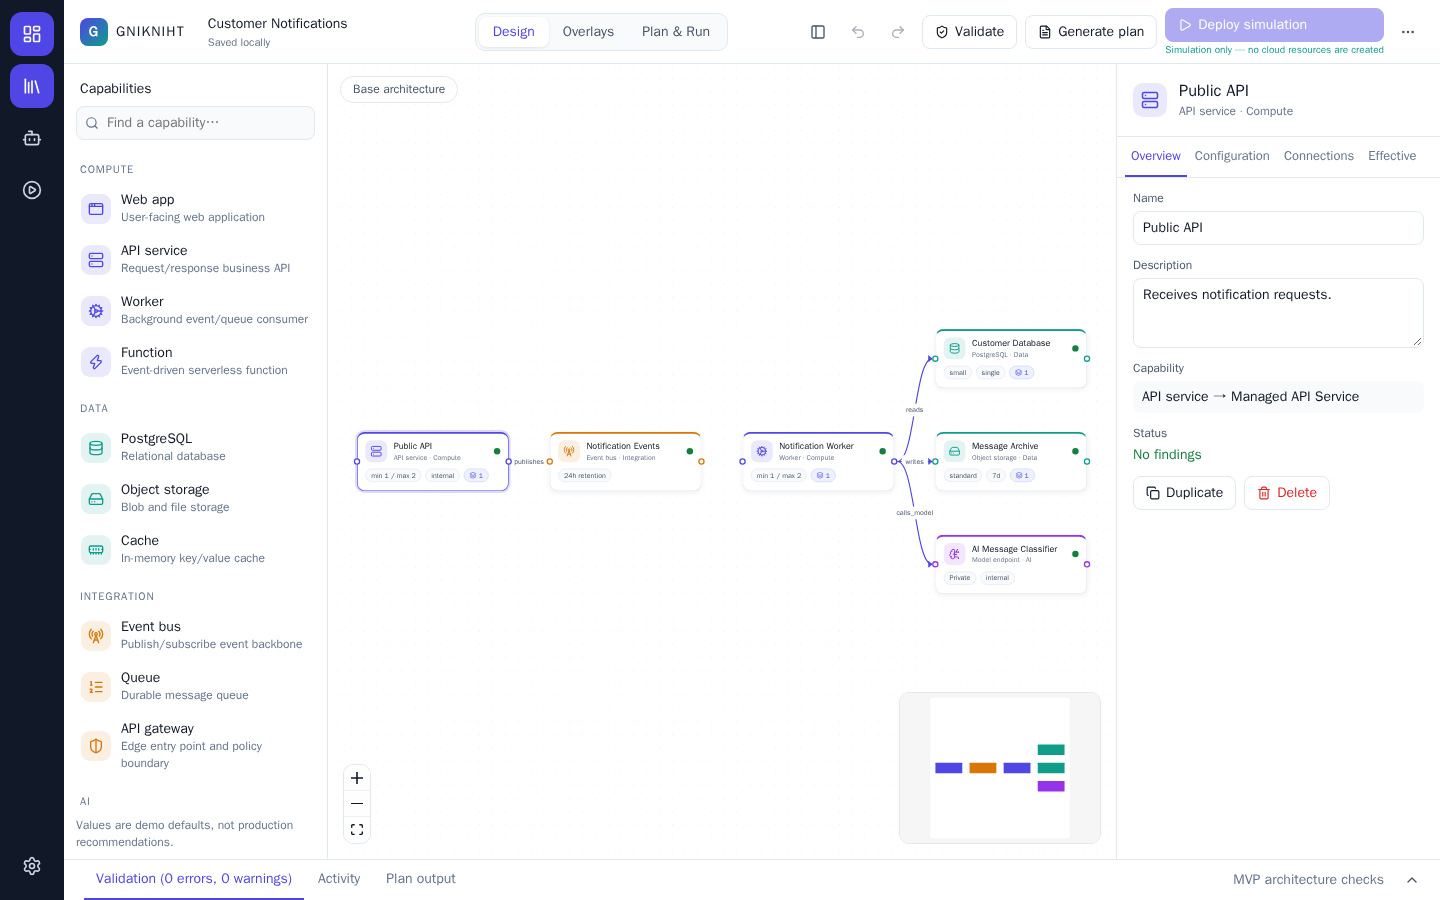
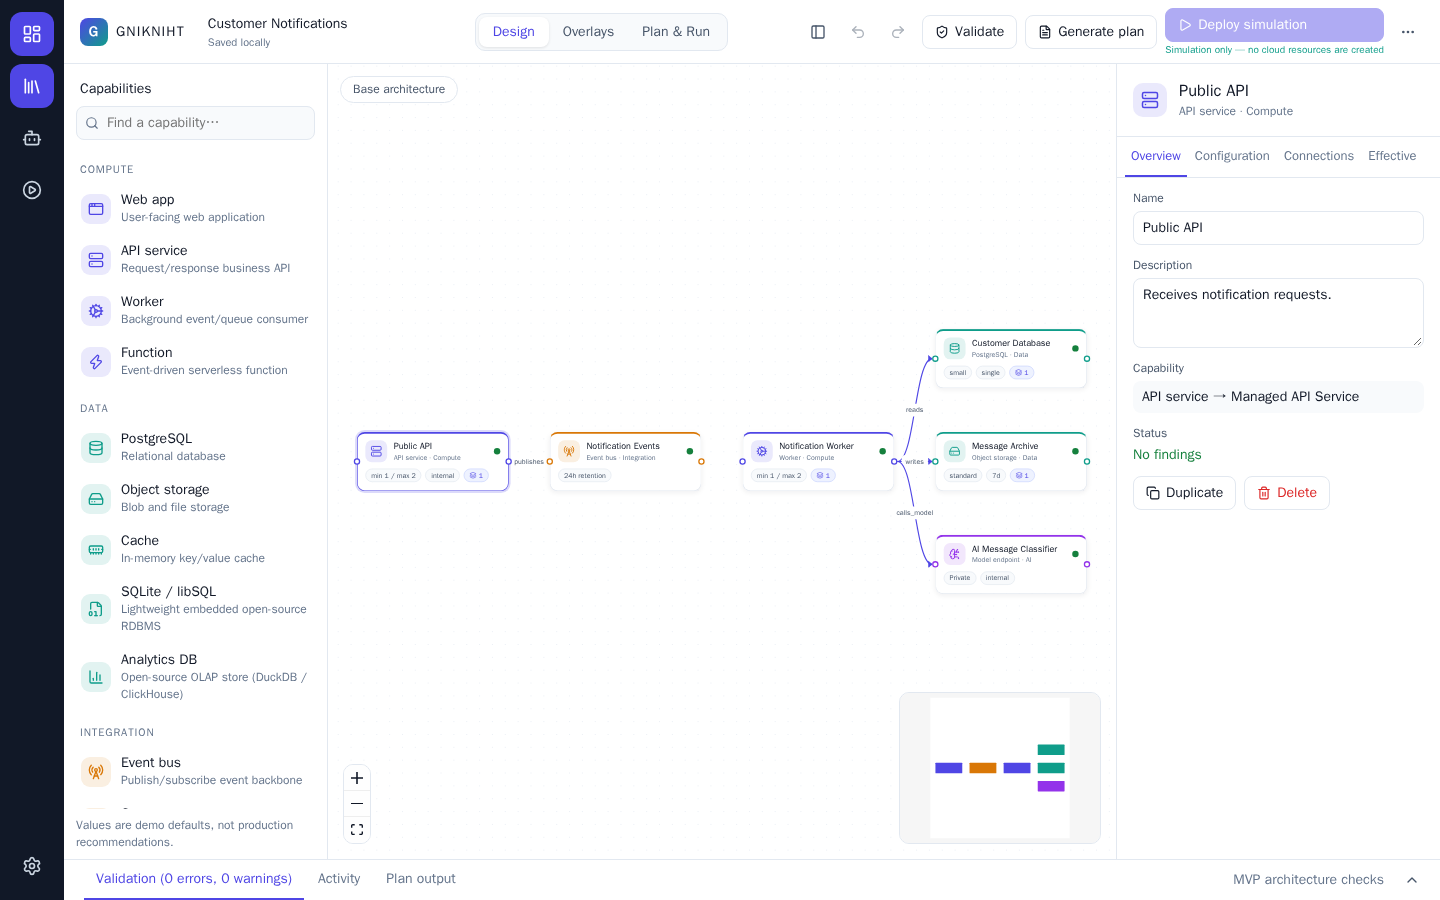
Add open-source platform kit capabilities (SQLite, analytics DB, vector store, RAG, MCP, APIM, SSO, Key Vault, IaC)

Changed region(s): [[0.0312, 0.6533, 0.2188, 0.7778], [0.0312, 0.8089, 0.2188, 0.8711]]

diff --git a/src/domain/catalog.ts b/src/domain/catalog.ts
@@ -1,6 +1,6 @@
 import type { CapabilityKind, ConfigValue, NodeConfig, Relation } from './types';
 
-export type Category = 'Compute' | 'Data' | 'Integration' | 'AI' | 'External';
+export type Category = 'Compute' | 'Data' | 'Integration' | 'AI' | 'Security' | 'Platform' | 'External';
 
 export interface FieldDef {
   key: string;
@@ -139,6 +139,106 @@ export const CATALOG: Record<CapabilityKind, CapabilityDef> = {
     ],
     implementation: 'Private Model Endpoint', stateless: false, dataBearing: true, baseCost: 80,
   },
+  sqlite: {
+    kind: 'sqlite', label: 'SQLite / libSQL', category: 'Data', description: 'Lightweight embedded open-source RDBMS',
+    defaults: { engine: 'sqlite', storageGiB: 5, backup: true, encryptionAtRest: true, publicAccess: false },
+    fields: [
+      { key: 'engine', label: 'Engine', type: 'select', options: ['sqlite', 'libsql', 'mariadb'] },
+      { key: 'storageGiB', label: 'Storage (GiB)', type: 'number', min: 1, max: 1024 },
+      { key: 'backup', label: 'Backups', type: 'boolean' },
+      { key: 'encryptionAtRest', label: 'Encryption at rest', type: 'boolean' },
+      { key: 'publicAccess', label: 'Public endpoint', type: 'boolean' },
+    ],
+    implementation: 'Lightweight Relational DB', stateless: false, dataBearing: true, baseCost: 8,
+  },
+  analytics_db: {
+    kind: 'analytics_db', label: 'Analytics DB', category: 'Data', description: 'Open-source OLAP store (DuckDB / ClickHouse)',
+    defaults: { engine: 'duckdb', tier: 'small', storageGiB: 50, encryptionAtRest: true, publicAccess: false },
+    fields: [
+      { key: 'engine', label: 'Engine', type: 'select', options: ['duckdb', 'clickhouse'] },
+      { key: 'tier', label: 'Tier', type: 'select', options: ['small', 'medium', 'large'] },
+      { key: 'storageGiB', label: 'Storage (GiB)', type: 'number', min: 1, max: 16384 },
+      { key: 'encryptionAtRest', label: 'Encryption at rest', type: 'boolean' },
+      { key: 'publicAccess', label: 'Public endpoint', type: 'boolean' },
+    ],
+    implementation: 'Managed Analytics DB', stateless: false, dataBearing: true, baseCost: 35,
+  },
+  vector_store: {
+    kind: 'vector_store', label: 'Vector store', category: 'AI', description: 'Embedding index for RAG (pgvector / Qdrant)',
+    defaults: { engine: 'pgvector', dimensions: 768, storageGiB: 10, encryptionAtRest: true, publicAccess: false },
+    fields: [
+      { key: 'engine', label: 'Engine', type: 'select', options: ['pgvector', 'qdrant', 'chroma'] },
+      { key: 'dimensions', label: 'Dimensions', type: 'number', min: 8, max: 4096 },
+      { key: 'storageGiB', label: 'Storage (GiB)', type: 'number', min: 1, max: 4096 },
+      { key: 'encryptionAtRest', label: 'Encryption at rest', type: 'boolean' },
+      { key: 'publicAccess', label: 'Public endpoint', type: 'boolean' },
+    ],
+    implementation: 'Managed Vector Store', stateless: false, dataBearing: true, baseCost: 25,
+  },
+  rag_service: {
+    kind: 'rag_service', label: 'RAG service', category: 'AI', description: 'Retrieval-augmented generation pipeline',
+    defaults: { replicasMin: 1, replicasMax: 3, cpu: 1, memoryGiB: 2, topK: 5, chunkSize: 512, ingress: 'internal' },
+    fields: [...replicas,
+      { key: 'topK', label: 'Top-K', type: 'number', min: 1, max: 100 },
+      { key: 'chunkSize', label: 'Chunk size (tokens)', type: 'number', min: 64, max: 8192 },
+      ingress],
+    implementation: 'Managed RAG Pipeline', stateless: true, dataBearing: false, baseCost: 30,
+  },
+  mcp_server: {
+    kind: 'mcp_server', label: 'MCP server', category: 'AI', description: 'Model Context Protocol tool/resource server',
+    defaults: { replicasMin: 1, replicasMax: 3, cpu: 0.5, memoryGiB: 1, transport: 'http', authentication: 'required', ingress: 'internal' },
+    fields: [...replicas,
+      { key: 'transport', label: 'Transport', type: 'select', options: ['http', 'sse', 'stdio'] },
+      { key: 'authentication', label: 'Authentication', type: 'select', options: ['required', 'optional', 'none'] },
+      ingress],
+    implementation: 'Managed MCP Server', stateless: true, dataBearing: false, baseCost: 20,
+  },
+  api_management: {
+    kind: 'api_management', label: 'API management', category: 'Integration', description: 'APIM: keys, quotas, versions, portal (Kong / Tyk)',
+    defaults: { engine: 'kong', ingress: 'public', authentication: 'required', rateLimitPerMinute: 1000, developerPortal: true },
+    fields: [
+      { key: 'engine', label: 'Engine', type: 'select', options: ['kong', 'tyk', 'apisix'] },
+      ingress,
+      { key: 'authentication', label: 'Authentication', type: 'select', options: ['required', 'optional', 'none'] },
+      { key: 'rateLimitPerMinute', label: 'Rate limit / min', type: 'number', min: 1, max: 1000000 },
+      { key: 'developerPortal', label: 'Developer portal', type: 'boolean' },
+    ],
+    implementation: 'Managed API Management', stateless: true, dataBearing: false, baseCost: 25,
+  },
+  identity_provider: {
+    kind: 'identity_provider', label: 'SSO / Identity', category: 'Security', description: 'SSO and authentication (Keycloak / Authentik)',
+    defaults: { engine: 'keycloak', protocol: 'oidc', mfa: true, tier: 'small' },
+    fields: [
+      { key: 'engine', label: 'Engine', type: 'select', options: ['keycloak', 'authentik', 'zitadel'] },
+      { key: 'protocol', label: 'Protocol', type: 'select', options: ['oidc', 'saml'] },
+      { key: 'mfa', label: 'Require MFA', type: 'boolean' },
+      { key: 'tier', label: 'Tier', type: 'select', options: ['small', 'medium', 'large'] },
+    ],
+    implementation: 'Managed Identity Provider', stateless: false, dataBearing: false, baseCost: 20,
+  },
+  key_vault: {
+    kind: 'key_vault', label: 'Key Vault', category: 'Security', description: 'Secrets and key management (OpenBao / Vault)',
+    defaults: { engine: 'openbao', autoUnseal: true, rotationDays: 90, encryptionAtRest: true, publicAccess: false },
+    fields: [
+      { key: 'engine', label: 'Engine', type: 'select', options: ['openbao', 'vault', 'infisical'] },
+      { key: 'autoUnseal', label: 'Auto-unseal', type: 'boolean' },
+      { key: 'rotationDays', label: 'Rotation (days)', type: 'number', min: 1, max: 365 },
+      { key: 'encryptionAtRest', label: 'Encryption at rest', type: 'boolean' },
+      { key: 'publicAccess', label: 'Public endpoint', type: 'boolean' },
+    ],
+    implementation: 'Managed Key Vault', stateless: false, dataBearing: true, baseCost: 15,
+  },
+  iac_pipeline: {
+    kind: 'iac_pipeline', label: 'IaC pipeline', category: 'Platform', description: 'Infrastructure as code runner (OpenTofu / Pulumi)',
+    defaults: { engine: 'opentofu', stateBackend: 'object_storage', driftDetection: true, policyChecks: true },
+    fields: [
+      { key: 'engine', label: 'Engine', type: 'select', options: ['opentofu', 'pulumi', 'ansible'] },
+      { key: 'stateBackend', label: 'State backend', type: 'select', options: ['object_storage', 'postgres', 'local'] },
+      { key: 'driftDetection', label: 'Drift detection', type: 'boolean' },
+      { key: 'policyChecks', label: 'Policy checks', type: 'boolean' },
+    ],
+    implementation: 'IaC Pipeline Runner', stateless: true, dataBearing: false, baseCost: 5,
+  },
   external_system: {
     kind: 'external_system', label: 'External system', category: 'External', description: 'Third-party or on-prem dependency',
     defaults: { systemName: 'External system', trustBoundary: 'external', protocol: 'https' },
@@ -151,9 +251,9 @@ export const CATALOG: Record<CapabilityKind, CapabilityDef> = {
   },
 };
 
-export const CATEGORIES: Category[] = ['Compute', 'Data', 'Integration', 'AI', 'External'];
+export const CATEGORIES: Category[] = ['Compute', 'Data', 'Integration', 'AI', 'Security', 'Platform', 'External'];
 
-export const PRODUCER_KINDS: CapabilityKind[] = ['web_app', 'api_service', 'worker', 'function', 'external_system'];
+export const PRODUCER_KINDS: CapabilityKind[] = ['web_app', 'api_service', 'worker', 'function', 'rag_service', 'mcp_server', 'external_system'];
 export const BROKER_KINDS: CapabilityKind[] = ['event_bus', 'queue'];
 export const CONSUMER_KINDS: CapabilityKind[] = ['worker', 'function'];
 
@@ -177,6 +277,7 @@ export function relationProblem(rel: Relation, source: CapabilityKind, target: C
 
 export function inferRelation(source: CapabilityKind, target: CapabilityKind): Relation {
   if (target === 'model_endpoint') return 'calls_model';
+  if (target === 'identity_provider' || target === 'key_vault' || target === 'iac_pipeline') return 'depends_on';
   if (BROKER_KINDS.includes(target)) return CONSUMER_KINDS.includes(source) ? 'subscribes' : 'publishes';
   if (CATALOG[target].dataBearing) return source === 'worker' ? 'reads' : 'writes';
   if (CATALOG[source].category === 'Compute' || source === 'api_gateway') return 'request';
@@ -200,6 +301,10 @@ export function summaryChips(kind: CapabilityKind, c: NodeConfig): string[] {
     case 'api_gateway': chips.push(String(v('ingress'))); chips.push(`${v('rateLimitPerMinute')}/min`); break;
     case 'model_endpoint': chips.push(v('privateEndpoint') ? 'Private' : 'Public'); chips.push(String(v('dataSensitivity'))); break;
     case 'external_system': chips.push(String(v('trustBoundary'))); break;
+    case 'sqlite': case 'analytics_db': case 'vector_store': case 'api_management': case 'identity_provider': case 'key_vault': case 'iac_pipeline':
+      chips.push(String(v('engine'))); break;
+    case 'rag_service': chips.push(`top-${v('topK')}`); chips.push(String(v('ingress'))); break;
+    case 'mcp_server': chips.push(String(v('transport'))); chips.push(v('authentication') === 'none' ? 'no auth' : 'auth'); break;
   }
   if (c.networkExposure === 'private') chips.push('Private network');
   return chips;

diff --git a/src/domain/validate.ts b/src/domain/validate.ts
@@ -80,11 +80,24 @@ export function validateProject(project: GnikProject, resolved: ResolvedProject)
       add({ severity: 'error', code: 'MODEL_RESTRICTED_PRIVATE', message: `${node.name} handles restricted data and requires a private endpoint on an approved provider profile.`, nodeIds: [node.id], remediation: 'Enable the private endpoint and use the mock-paas provider.' });
     }
 
+    if (node.kind === 'mcp_server' && c.authentication === 'none' && c.ingress === 'public') {
+      add({ severity: 'error', code: 'MCP_NO_AUTH', message: `${node.name}: a public MCP server must require authentication.`, nodeIds: [node.id], remediation: 'Set authentication to required or ingress to internal.' });
+    }
+    if (node.kind === 'key_vault' && c.publicAccess === true) {
+      add({ severity: 'error', code: 'VAULT_PUBLIC', message: `${node.name}: a key vault must not be publicly reachable.`, nodeIds: [node.id], remediation: 'Disable public access.' });
+    }
+    if (node.kind === 'identity_provider' && prod && c.mfa !== true) {
+      add({ severity: 'error', code: 'PROD_SSO_MFA', message: `${node.name}: production SSO must require MFA.`, nodeIds: [node.id], remediation: 'Enable MFA.' });
+    }
+    if (node.kind === 'rag_service' && !project.graph.edges.some((e) => e.source === node.id && project.graph.nodes.find((n) => n.id === e.target)?.kind === 'vector_store')) {
+      add({ severity: 'warning', code: 'RAG_NO_VECTOR_STORE', message: `${node.name} has no connection to a vector store.`, nodeIds: [node.id], idSuffix: node.id, remediation: 'Connect the RAG service to a vector store.' });
+    }
+
     if (prod) {
       if (def.stateless && min !== undefined && min < 2 && c.productionExempt !== true) {
         add({ severity: 'error', code: 'PROD_REPLICAS', message: `${node.name}: Production requires at least 2 replicas (currently ${min}).`, nodeIds: [node.id], remediation: 'Raise min replicas to 2 or more.' });
       }
-      if (node.kind === 'postgres') {
+      if (node.kind === 'postgres' || node.kind === 'sqlite') {
         if (c.backup !== true) add({ severity: 'error', code: 'PROD_DB_BACKUP', message: `${node.name}: production databases must have backups enabled.`, nodeIds: [node.id], remediation: 'Enable backups.' });
       }
     }

diff --git a/src/components/icons.ts b/src/components/icons.ts
@@ -1,6 +1,6 @@
 import {
   AppWindow, Server, Cog, Zap, Database, HardDrive, MemoryStick, RadioTower, ListOrdered, ShieldHalf, BrainCircuit, Globe2,
-  Gauge, Shield, Layers, Wallet, MapPin, Rocket, type LucideIcon,
+  Gauge, Shield, FileDigit, BarChart3, Boxes, Search, Plug, Network, KeyRound, Vault, Blocks, Layers, Wallet, MapPin, Rocket, type LucideIcon,
 } from 'lucide-react';
 import type { CapabilityKind, OverlayKind } from '../domain/types';
 import type { Category } from '../domain/catalog';
@@ -8,10 +8,12 @@ import type { Category } from '../domain/catalog';
 export const KIND_ICON: Record<CapabilityKind, LucideIcon> = {
   web_app: AppWindow, api_service: Server, worker: Cog, function: Zap, postgres: Database, object_storage: HardDrive,
   cache: MemoryStick, event_bus: RadioTower, queue: ListOrdered, api_gateway: ShieldHalf, model_endpoint: BrainCircuit, external_system: Globe2,
+  sqlite: FileDigit, analytics_db: BarChart3, vector_store: Boxes, rag_service: Search, mcp_server: Plug,
+  api_management: Network, identity_provider: KeyRound, key_vault: Vault, iac_pipeline: Blocks,
 };
 
 export const CATEGORY_COLOR: Record<Category, string> = {
-  Compute: '#4F46E5', Data: '#0F9D8A', Integration: '#D97706', AI: '#9333EA', External: '#64748B',
+  Compute: '#4F46E5', Data: '#0F9D8A', Integration: '#D97706', AI: '#9333EA', Security: '#DC2626', Platform: '#0284C7', External: '#64748B',
 };
 
 export const OVERLAY_ICON: Record<OverlayKind, LucideIcon> = {

diff --git a/src/domain/domain.test.ts b/src/domain/domain.test.ts
@@ -154,3 +154,26 @@ describe('import/export', () => {
     expect(parseProject('{"schemaVersion":2}').ok).toBe(false);
   });
 });
+
+describe('platform kit', () => {
+  it('flags insecure MCP, vault and orphan RAG nodes', () => {
+    const base = createStarterProject();
+    const mk = (id: string, kind: any, config: any) => ({ id, kind, name: id, position: { x: 0, y: 0 }, config });
+    const p: GnikProject = {
+      ...base,
+      graph: {
+        edges: [],
+        nodes: [
+          ...base.graph.nodes,
+          mk('m', 'mcp_server', { replicasMin: 1, replicasMax: 2, cpu: 0.5, memoryGiB: 1, authentication: 'none', ingress: 'public' }),
+          mk('k', 'key_vault', { publicAccess: true, rotationDays: 90 }),
+          mk('r', 'rag_service', { replicasMin: 1, replicasMax: 2, cpu: 1, memoryGiB: 2, topK: 5, chunkSize: 512 }),
+        ],
+      },
+    };
+    const codes = run(p).f.map((x) => x.code);
+    expect(codes).toContain('MCP_NO_AUTH');
+    expect(codes).toContain('VAULT_PUBLIC');
+    expect(codes).toContain('RAG_NO_VECTOR_STORE');
+  });
+});

diff --git a/src/domain/types.ts b/src/domain/types.ts
@@ -13,6 +13,15 @@ export const CAPABILITY_KINDS = [
   'api_gateway',
   'model_endpoint',
   'external_system',
+  'sqlite',
+  'analytics_db',
+  'vector_store',
+  'rag_service',
+  'mcp_server',
+  'api_management',
+  'identity_provider',
+  'key_vault',
+  'iac_pipeline',
 ] as const;
 export const capabilityKindSchema = z.enum(CAPABILITY_KINDS);
 export type CapabilityKind = z.infer<typeof capabilityKindSchema>;

diff --git a/README.md b/README.md
@@ -19,8 +19,23 @@ GNIKNIHT is a visual-first studio for modelling an application as a **topology o
 
 ## Features
 
-- **Design** — drag or click capabilities from the palette (web app, API service, worker, function, PostgreSQL, object storage, cache, event bus, queue, API gateway, model endpoint, external system), connect them with typed relationships (`request`, `publishes`, `subscribes`, `reads`, `writes`, `depends_on`, `calls_model`), move, multi-select, duplicate, delete, pan/zoom, minimap, undo/redo.
+- **Design** — drag or click capabilities from the palette (web app, API service, worker, function, PostgreSQL, object storage, cache, event bus, queue, API gateway, model endpoint, external system, plus the open-source platform kit below), connect them with typed relationships (`request`, `publishes`, `subscribes`, `reads`, `writes`, `depends_on`, `calls_model`), move, multi-select, duplicate, delete, pan/zoom, minimap, undo/redo.
 - **Inspector** — Overview, Configuration, Connections and **Effective** tabs. The Effective tab shows base vs. resolved values with provenance (base, overlay, platform default, org policy).
+- **Open-source platform kit** — lightweight building blocks, each with an `engine` choice, validation and plan support:
+
+  | Capability | Category | Engines |
+  |---|---|---|
+  | SQLite / libSQL (RDBMS) | Data | sqlite, libsql, mariadb |
+  | Analytics DB | Data | duckdb, clickhouse |
+  | Vector store | AI | pgvector, qdrant, chroma |
+  | RAG service | AI | retrieval pipeline (top-K, chunk size) |
+  | MCP server | AI | http, sse, stdio transports |
+  | API management (APIM) | Integration | kong, tyk, apisix |
+  | SSO / Identity | Security | keycloak, authentik, zitadel |
+  | Key Vault | Security | openbao, vault, infisical |
+  | IaC pipeline | Platform | opentofu, pulumi, ansible |
+
+  Rules: public MCP servers must require auth, key vaults can't be public, production SSO requires MFA, production SQLite needs backups, and a RAG service without a vector store gets a warning.
 - **Overlays** — four demo overlays (Development, Production, Restricted Data, Budget Guardrail), plus your own. Enable/disable, reorder priority, choose targets (all, selected nodes, capability kinds) and edit validated settings. Overlays never mutate the base graph.
 - **Conflicts are explicit** — if two overlays set the same property differently, GNIKNIHT reports a conflict instead of picking a winner. Resolve it by disabling a layer or marking the higher-priority overlay as an override with a reason.
 - **Validation** — "MVP architecture checks" (edge rules, replica/range checks, production and restricted-data rules, HA support, budget, stale targets, conflicts). Each finding has a **Focus** action; **Explain** uses the demo assistant.
